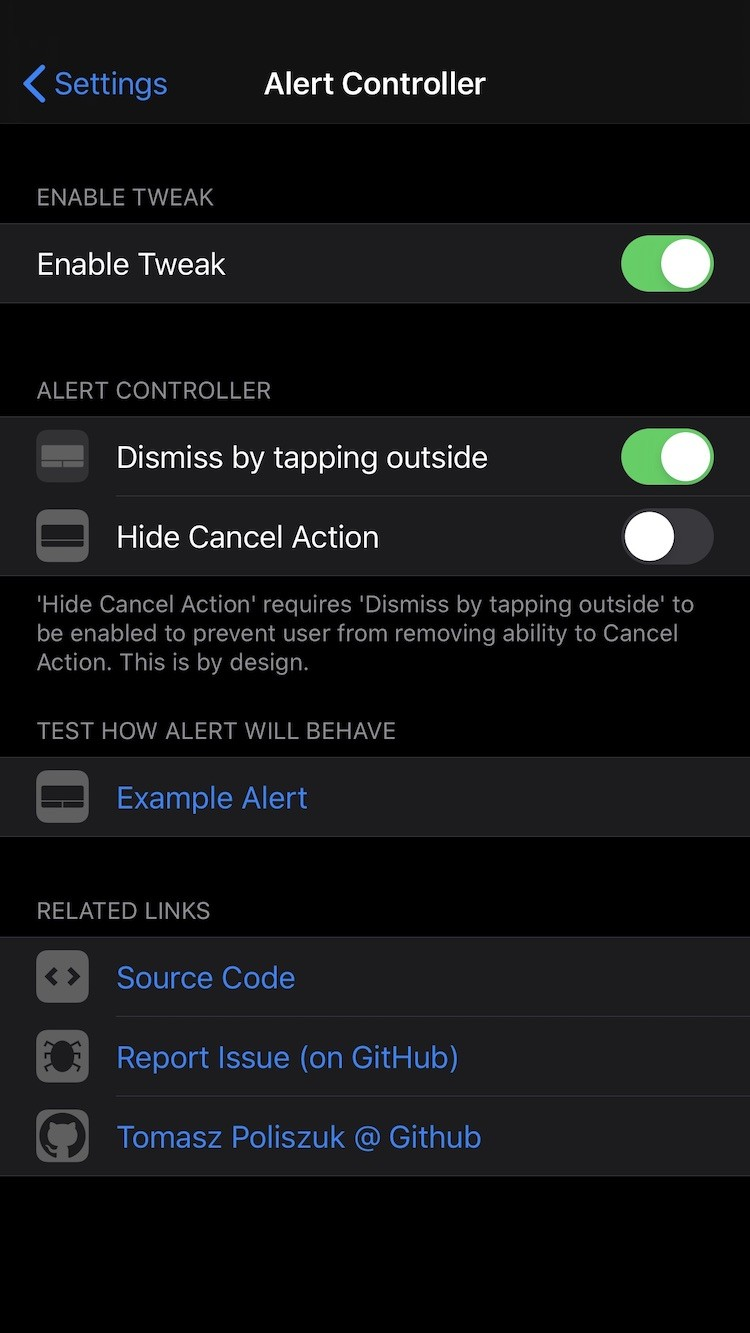
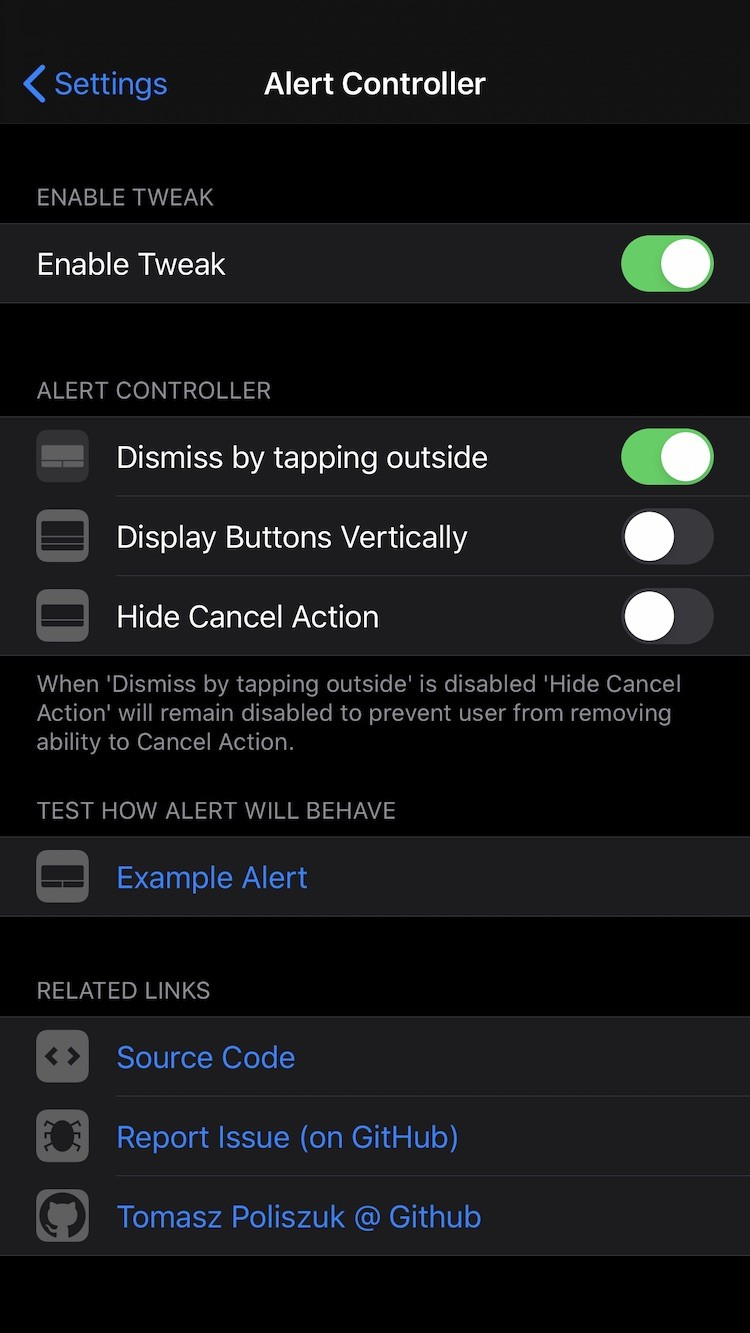
Added ability to display buttons vertically.

diff --git a/README.md b/README.md
@@ -4,7 +4,8 @@
 
 **Possibilities:**
 - Dismiss by tapping outside
-- Hide Cancel Action
+- Display buttons vertically
+- Hide cancel action
 
 Configure options from Settings.
 
